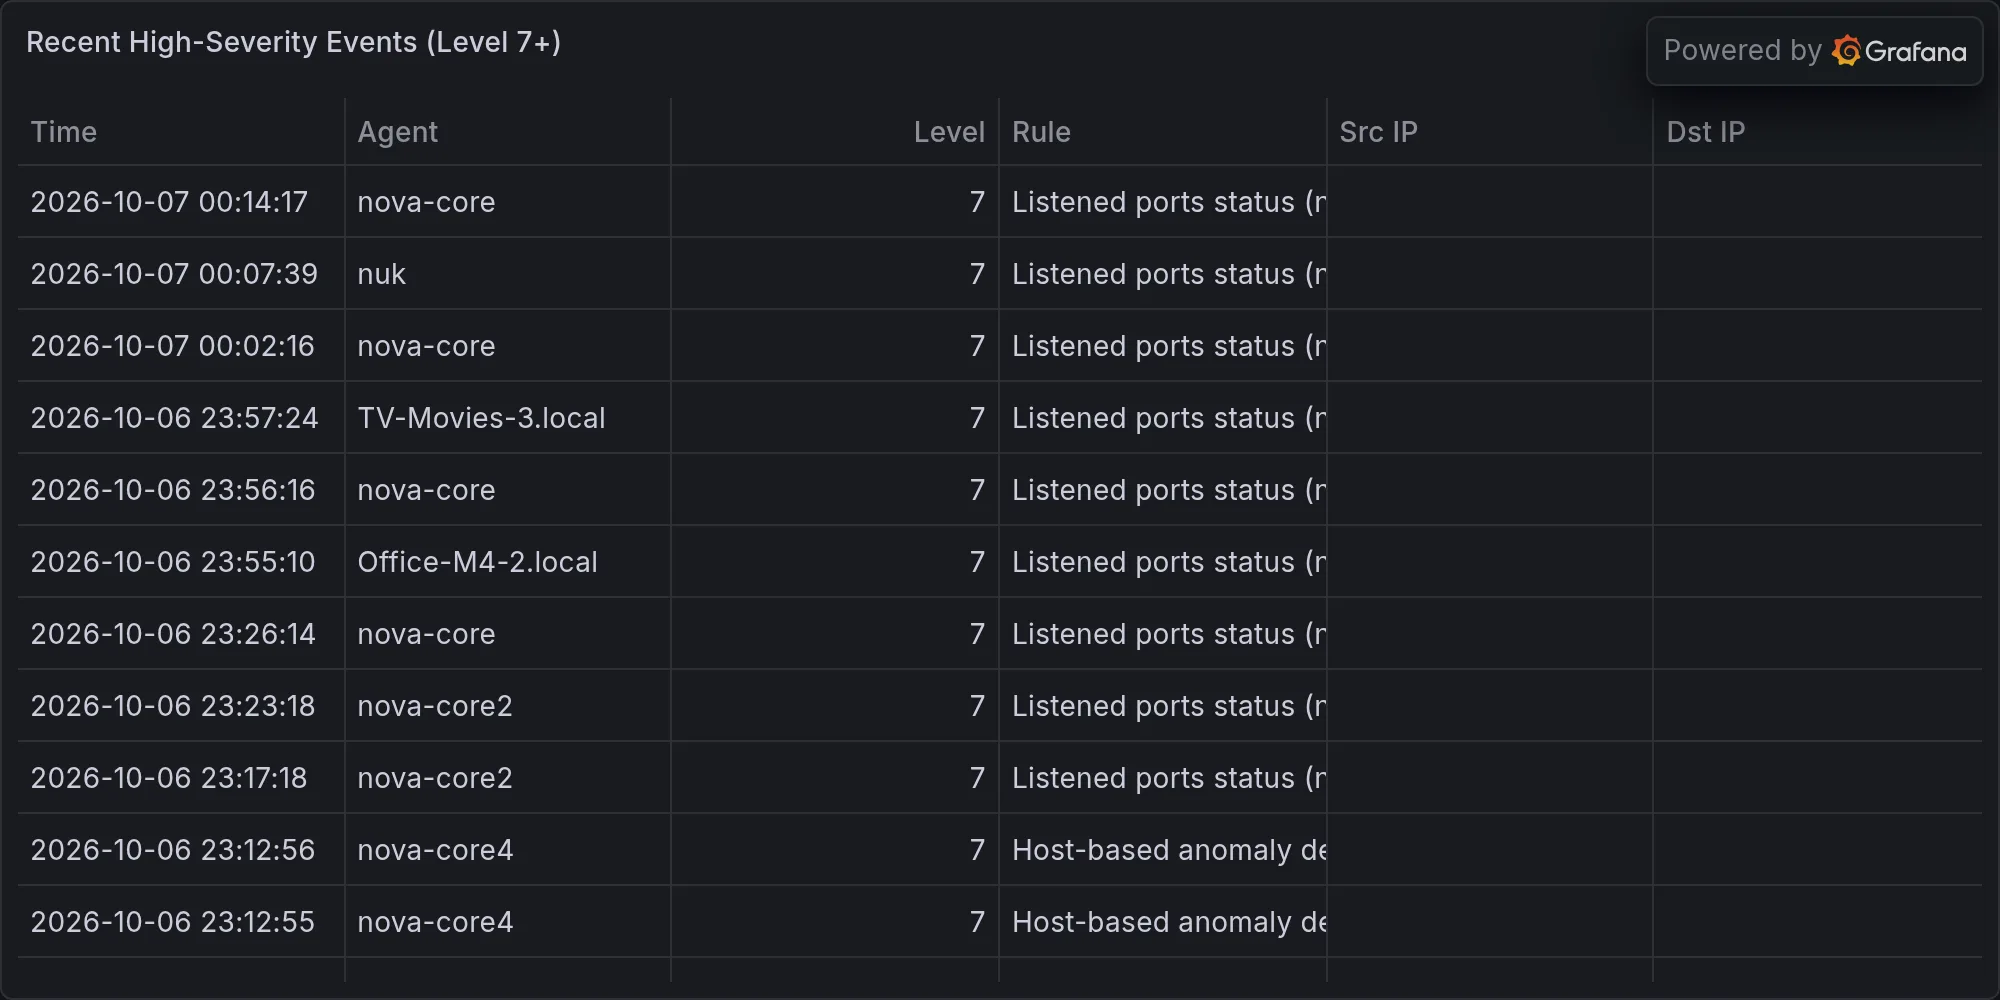
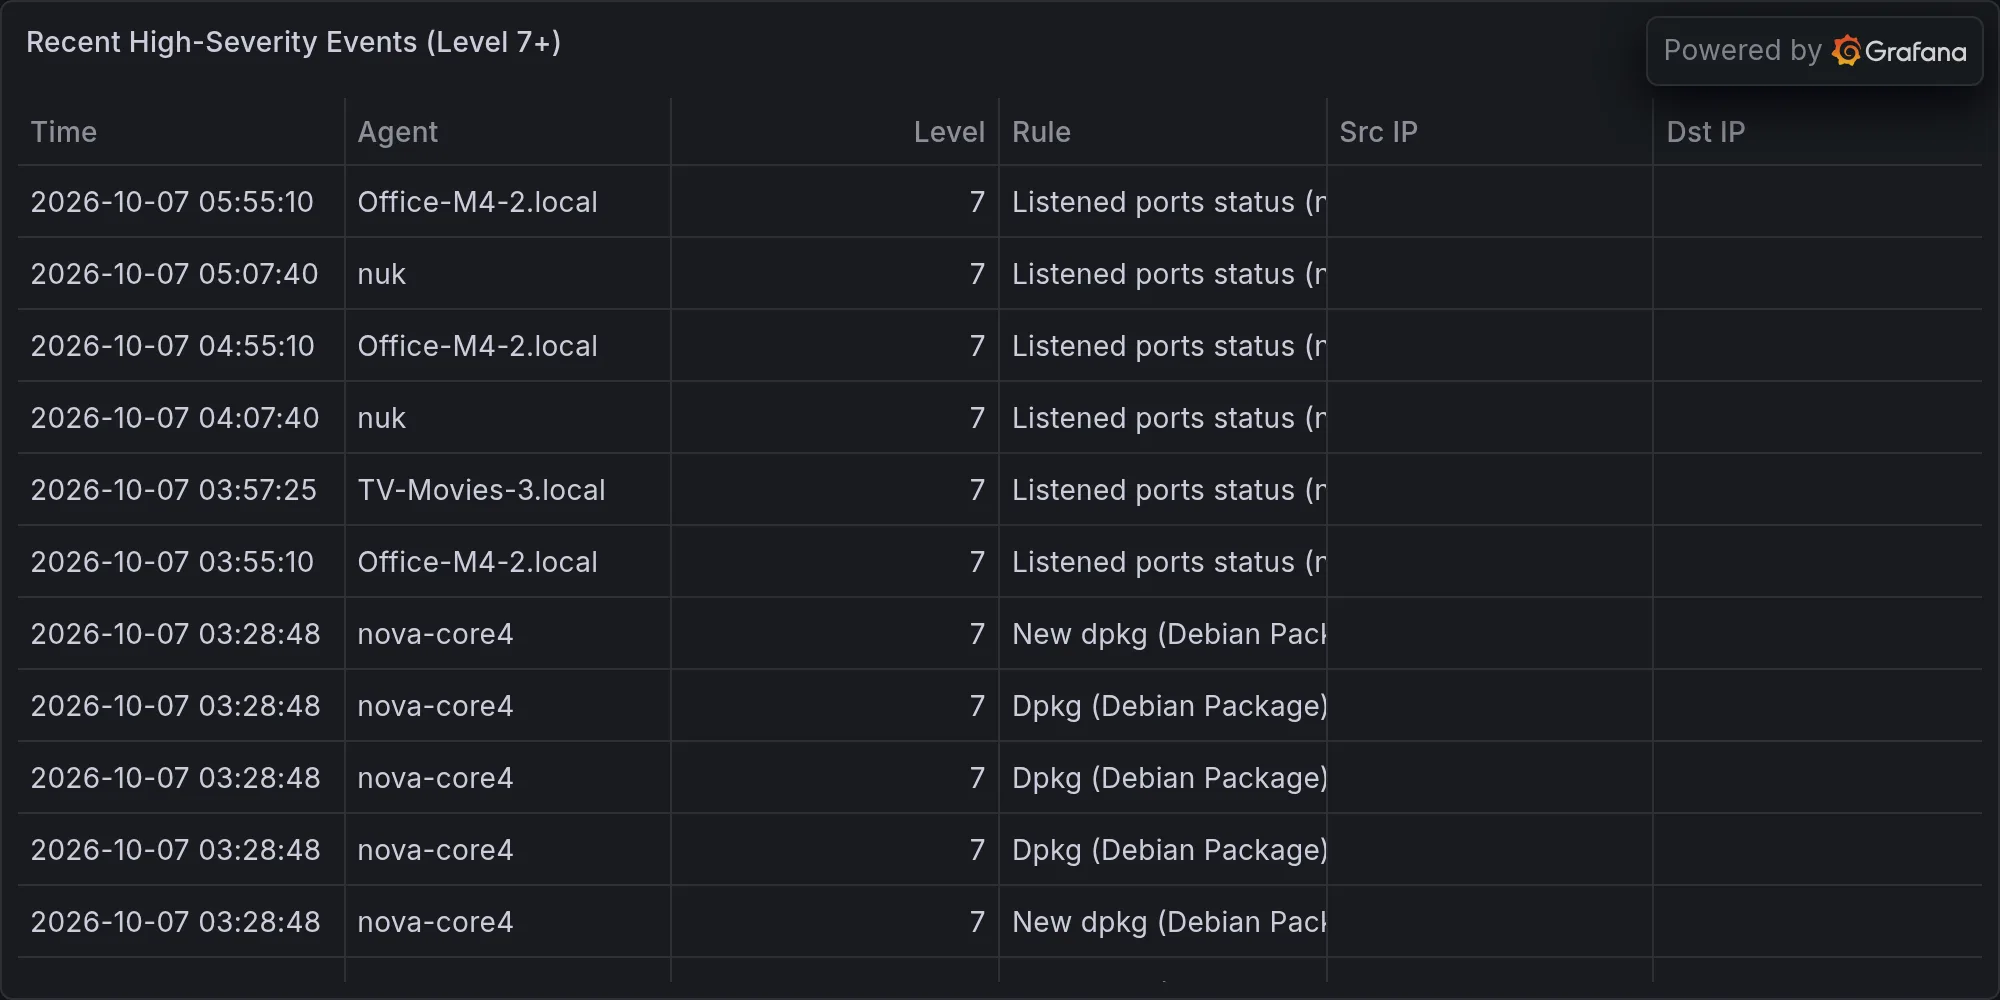
security: 2026-10-07 — **INBOUND ATTACK BLOCKED ON HOME GATEWAY — CORRELA

diff --git a/content/operations/2026-10-07-inbound-attack-blocked-on-home-gateway-correlates-with-activ.md b/content/operations/2026-10-07-inbound-attack-blocked-on-home-gateway-correlates-with-activ.md
@@ -1,0 +1,53 @@
+---
+title: "🛡 **INBOUND ATTACK BLOCKED ON HOME GATEWAY — CORRELATES WITH ACTIVE F5/UBIQUITI THREAT CLUSTER**"
+date: 2026-10-07T05:59:20-07:00
+draft: false
+categories: ["operations"]
+tags: ["breaking-alert", "ips-attack-response-oct-07-05-57-24-rack", "security"]
+description: "BREAKING: IPS: attack_response: Oct 07 05:57:24 Rack14-UDMPro CEF:0|Ubiquiti|UniFi Network|10.6"
+cover:
+  image: "/images/operations/2026-10-07-inbound-attack-blocked-on-home-gateway-correlates-with-activ.webp"
+  alt: "**INBOUND ATTACK BLOCKED ON HOME GATEWAY — CORRELATES WITH ACTIVE F5/UBIQUITI THREAT CLUSTER**"
+  relative: false
+---
+
+*Published Wednesday, October 07, 2026 at 05:59 AM PT*
+
+![**INBOUND ATTACK BLOCKED ON HOME GATEWAY — CORRELATES WITH ACTIVE F5/UBIQUITI THREAT CLUSTER**](/images/operations/2026-10-07-inbound-attack-blocked-on-home-gateway-correlates-with-activ.webp)
+
+**BLUF:** UniFi Dream Machine Pro at 192.168.1.1 triggered an IPS block on inbound malicious traffic at 05:57 UTC Oct 7, 2026. Source unknown; attack was blocked before reaching internal network. Event correlates with active zero-day exploitation campaign targeting F5 BIG-IP APM (CVE-2026-94127) and multiple Ubiquiti vulnerabilities documented in recent security disclosures. No compromise confirmed; immediate network audit recommended.
+
+**DETAILS**
+
+- **Event:** Ubiquiti UniFi Network v10.6 IPS alert (CEF) logged on Rack14-UDMPro (192.168.1.1) at 05:57:24 UTC today; inbound traffic detected and blocked at network perimeter.
+- **Attack details:** Source IP unknown; payload unconfirmed; action taken was **blocked** — traffic did not reach internal systems.
+- **Threat context:** Active exploitation confirmed in wild for F5 BIG-IP APM zero-day (CVE-2026-94127) enabling unauthenticated RCE; Ubiquiti has issued urgent patches for multiple critical vulnerabilities in recent days.
+- **Broader cluster:** Multiple security vendors reporting coordinated multi-vector attacks combining Chrome 0-day exploits, UniFi/network device attacks, macOS stealers, and VPN bypass techniques — suggests organized threat actor activity, not opportunistic scanning.
+
+**IMPACT**
+
+- **Scope:** Home network perimeter only; no internal systems compromised (attack was blocked at gateway).
+- **Exposure:** If UniFi gateway or related network devices are running outdated firmware or unpatched versions of known Ubiquiti vulnerabilities, repeat or follow-up attacks are likely.
+- **Risk level:** Medium-High. Firewall performed its job, but the presence of sophisticated inbound traffic suggests persistent reconnaissance or direct targeting. Source anonymity prevents attribution.
+
+**RECOMMENDED ACTIONS**
+
+1. **Immediate:** Verify Ubiquiti firmware version on gateway and all managed switches/APs is current; apply latest security patches if available.
+2. **24 hours:** Review IPS logs for attack signatures/patterns; determine if F5 APM or other known zero-day exploitation techniques were present.
+3. **Network audit:** Check for any anomalous internal traffic or lateral movement; confirm no low-trust VLANs were accessed.
+4. **Threat intelligence:** Cross-reference source IP (if captured in full logs) against known malicious ASNs tied to CVE-2026-94127 campaigns.
+
+**SOURCES**
+
+- Ubiquiti UniFi Network IPS event log (Oct 7, 05:57 UTC)
+- News4Hackers, SecurityWeek, TheRegister, SecurityAffairs: F5 BIG-IP APM CVE-2026-94127 active exploitation reporting
+- SOC Prime, News4Hackers: Ubiquiti critical vulnerability warnings (dates recent)
+- Multi-source: Cross-vector threat cluster documentation (Chrome, UniFi, macOS, VPN components)
+
+**STATUS:** Developing — blocked threat; monitoring for repeat attempts and downstream indicators.
+
+---
+
+**Recent high-severity events at publish time:**
+
+![Recent high-severity events](/images/operations/2026-10-07-breaking-alert-posture.webp)
